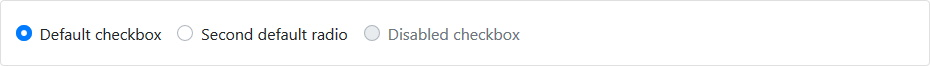
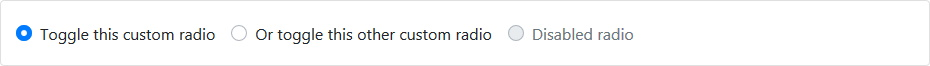
~

Changed region(s): [[0.0312, 0.3636, 0.686, 0.6667]]

diff --git a/readme/form/README.md b/readme/form/README.md
@@ -1897,6 +1897,8 @@ bsFormGroupSingle.UseCustomisation = true;
 
 ## Inline[¶](https://getbootstrap.com/docs/4.3/components/forms/#inline-1)
 
+От предыдущего отличается только это: `bsFormGroupStacked GroupStacked = new bsFormGroupStacked() { IsInline = true };`
+
 ```cshtml
 @{
   bsFormGroupStacked.UseCustomisation = true;
@@ -1913,7 +1915,7 @@ bsFormGroupSingle.UseCustomisation = true;
       ID = "exampleRadios1",
       IsChecked = true
     },
-    Label = "Default checkbox"
+    Label = "Toggle this custom radio"
   });
 
   GroupStacked.CustomInputs.Add(new bmInput()
@@ -1924,7 +1926,7 @@ bsFormGroupSingle.UseCustomisation = true;
       NameDom = "exampleRadios",
       ID = "exampleRadios2"
     },
-    Label = "Second default radio"
+    Label = "Or toggle this other custom radio"
   });
 
   GroupStacked.CustomInputs.Add(new bmInput()
@@ -1936,7 +1938,7 @@ bsFormGroupSingle.UseCustomisation = true;
       ID = "exampleRadios3",
       IsDisabled = true
     },
-    Label = "Disabled checkbox"
+    Label = "Disabled radio"
   });
 
   form.AddChild(GroupStacked);
